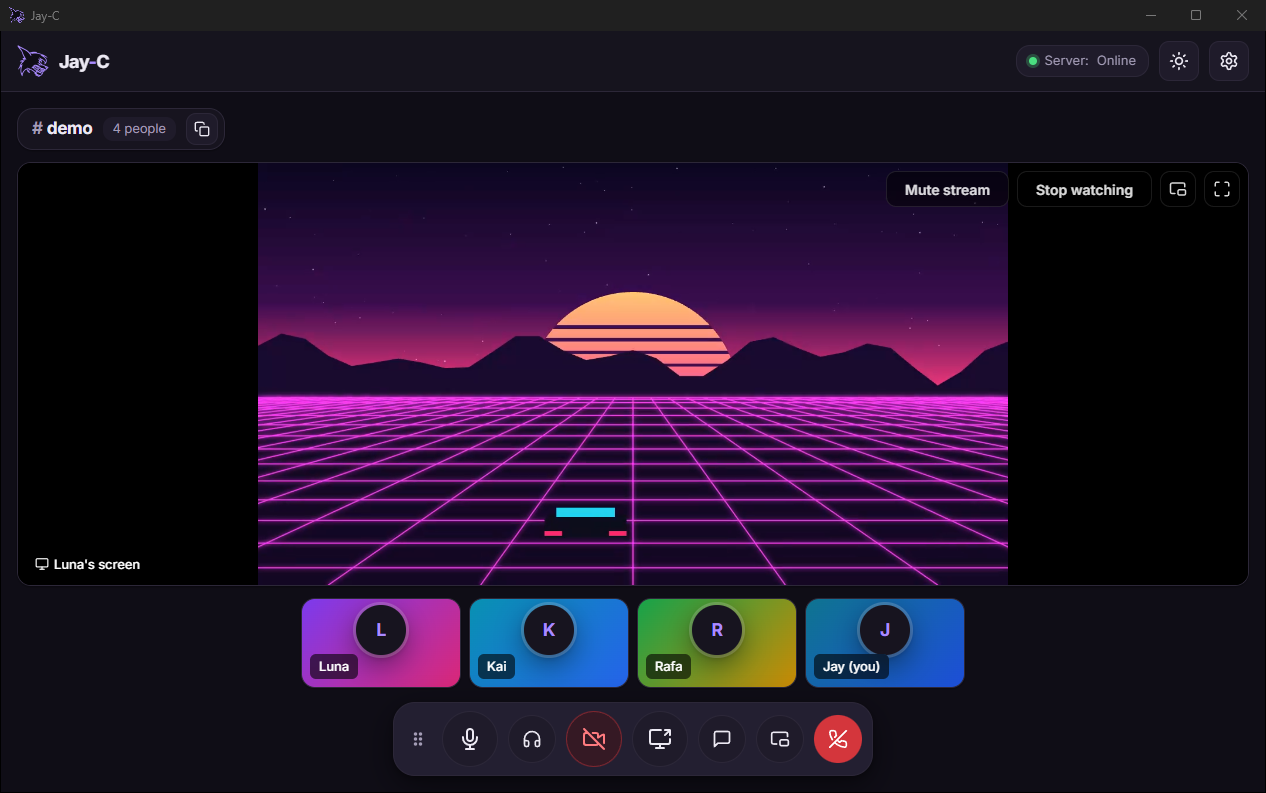
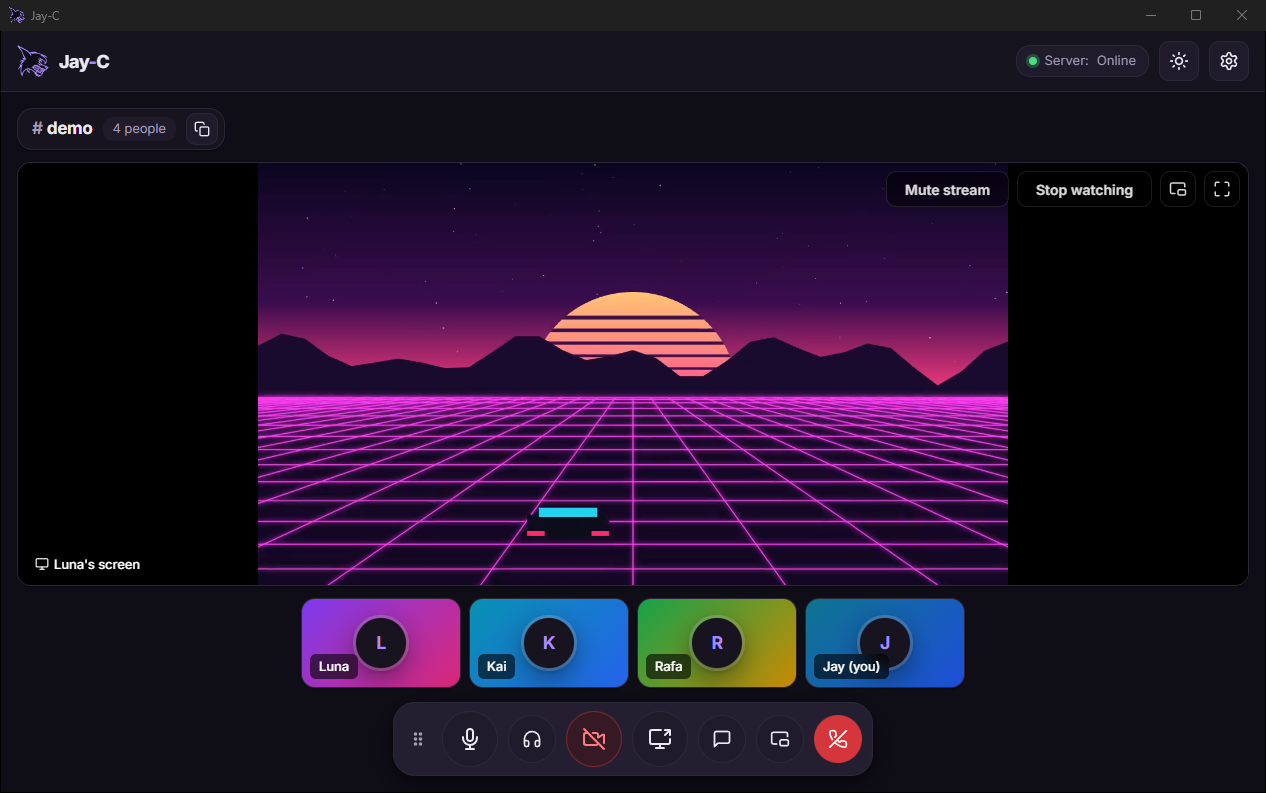
Cards pequenos: foto centralizada, nome por cima
Na faixa de cards debaixo de uma live, a foto (ou a inicial) ficava
no alto do card, porque a área dela deixava de fora os 30 px de baixo
reservados para o nome. Agora ela fica no centro do card, e o nome
tem z-index próprio para ficar sempre por cima onde os dois se
encontram. A imagem da chamada no README foi refeita com o novo visual.

Medido no app de dev (chamada de teste com 3 bots e uma live), em
janelas de 1280x800, 900x620 e 1700x1000: cards de 160x90, círculo de
49 px com deslocamento 0,0 do centro do card; onde o círculo encontra
o nome (Luna, "Jay (you)"), o elemento no ponto de encontro é o nome.

diff --git a/frontend/src/styles/app.css b/frontend/src/styles/app.css
@@ -1826,12 +1826,8 @@ fieldset > h3 {
   display: grid;
 }
 
-/* Small cards (the strip under a live): center the avatar above the name, not behind it. */
+/* Small cards (the strip under a live): a bigger circle, centered in the card (the name stays on top). */
 @container (max-height: 140px) {
-  .tile-avatar {
-    inset: 4px 0 30px;
-  }
-
   .tile .tile-initials,
   .tile .tile-avatar img {
     width: min(56cqmin, 160px);
@@ -1864,6 +1860,7 @@ fieldset > h3 {
   align-items: center;
   gap: 5px;
   max-width: calc(100% - 16px);
+  z-index: 1; /* over the avatar where they meet (small cards) */
   padding: 3px 9px;
   border-radius: max(6px, calc(var(--radius-tile) / 2 - 2px));
   background: rgb(0 0 0 / 0.6); /* white text >= 4.5:1 even over a white video (5.7:1) */
